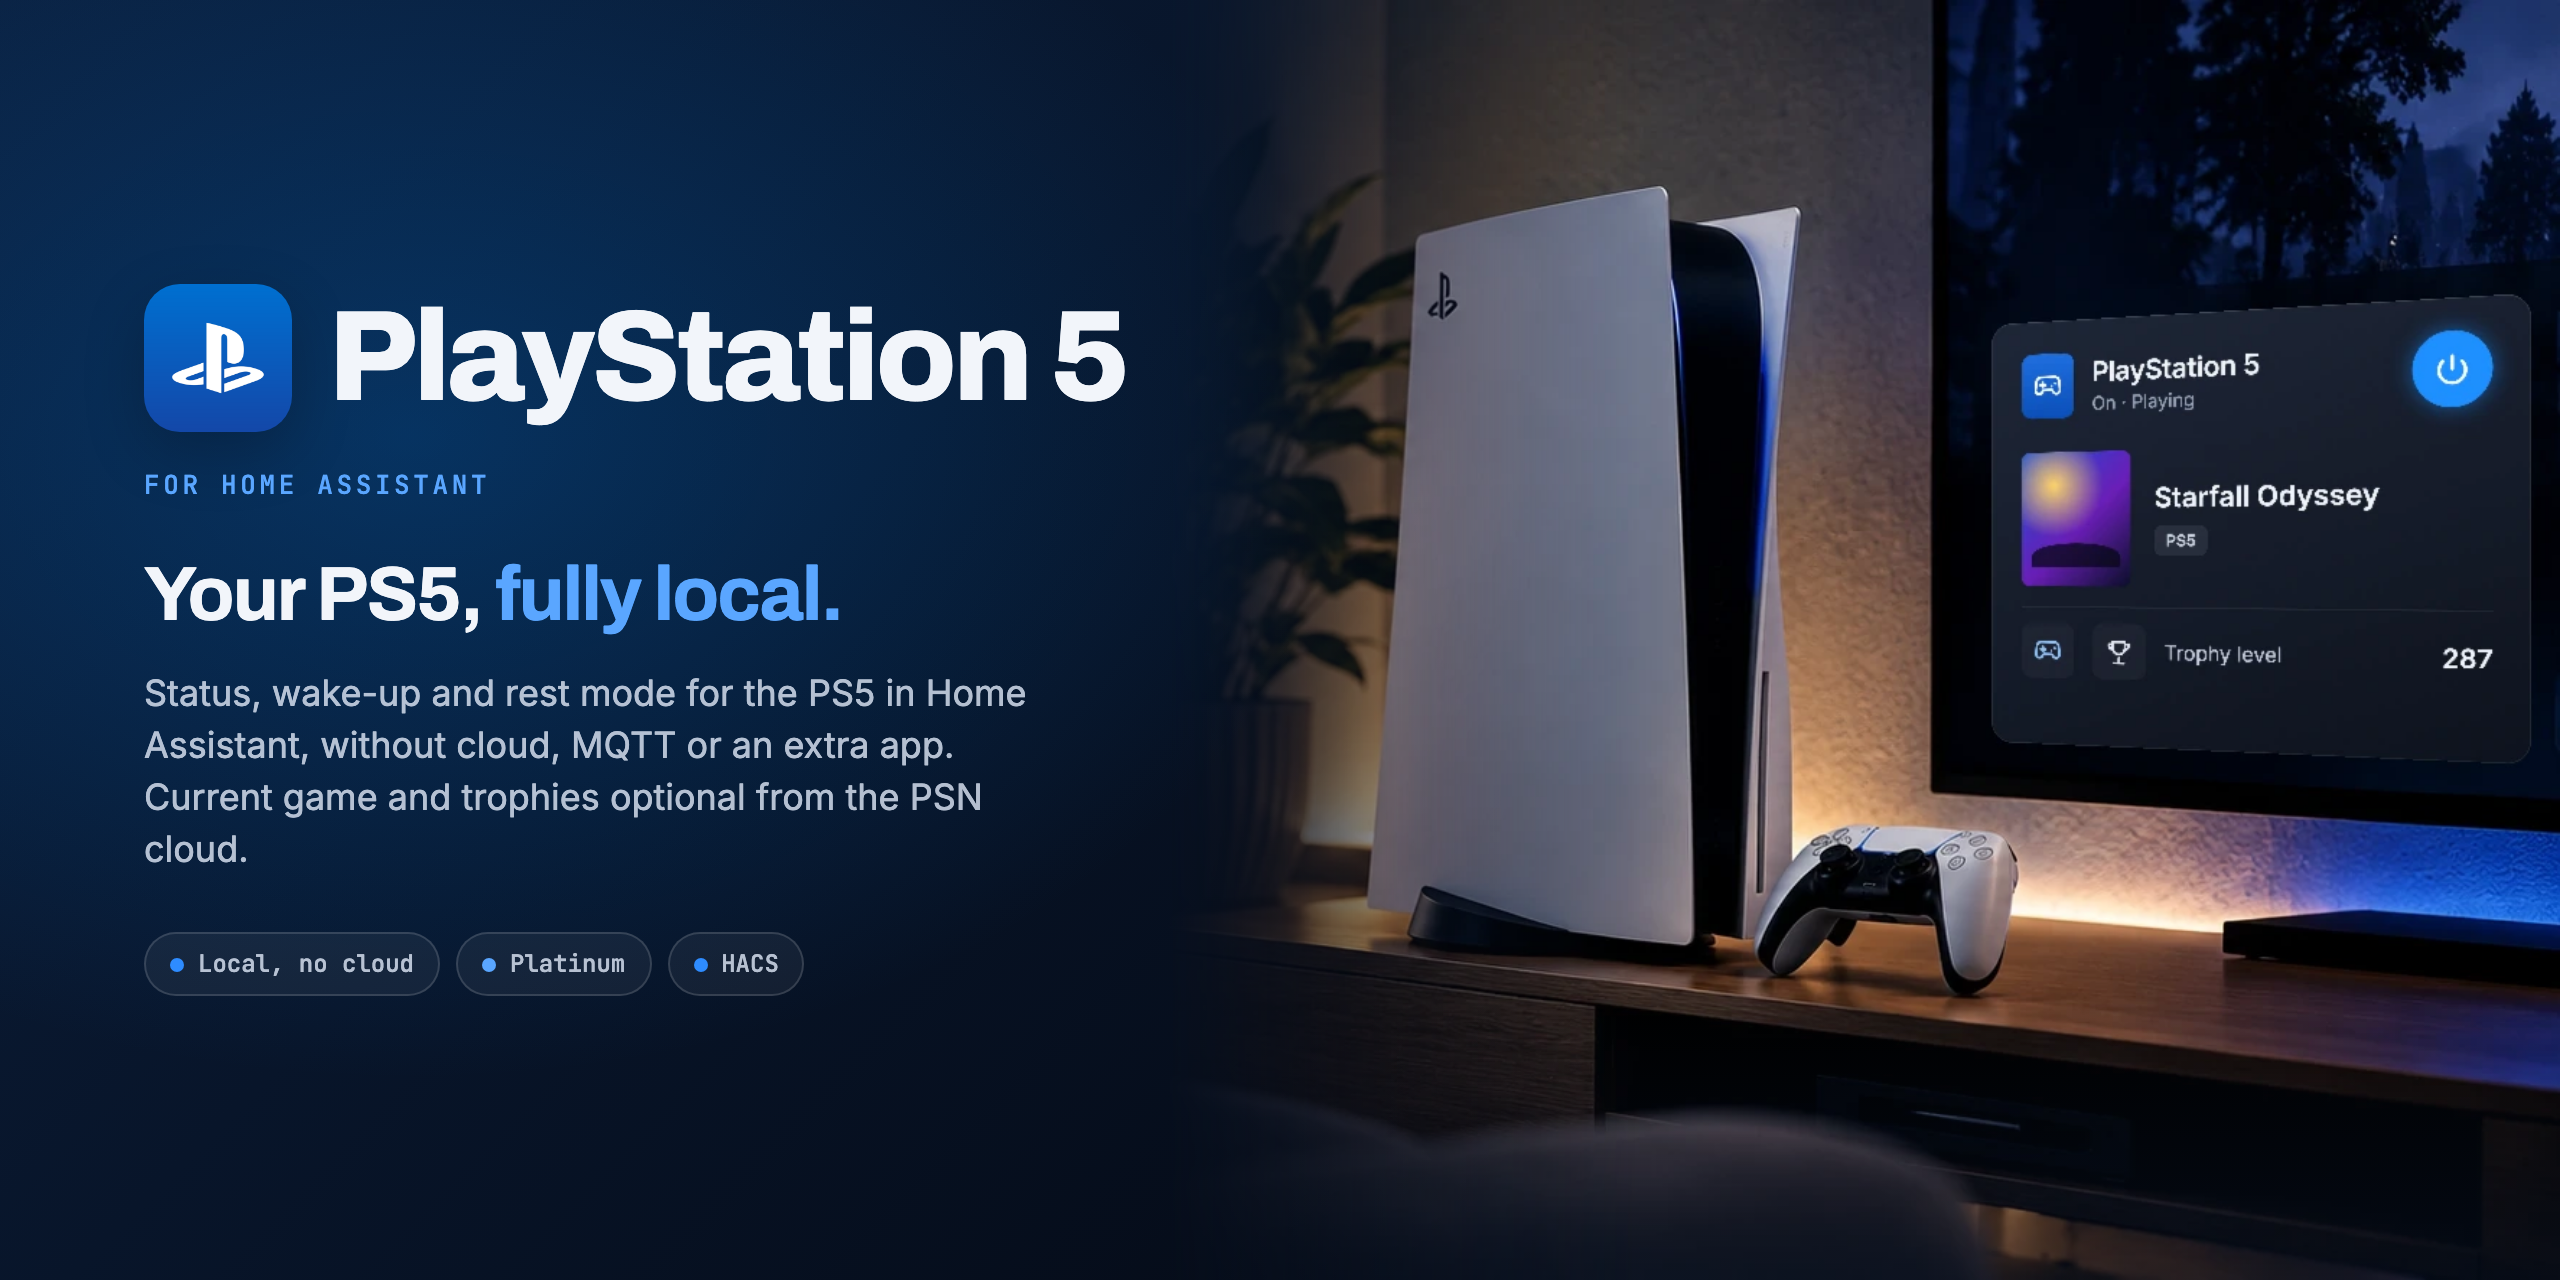
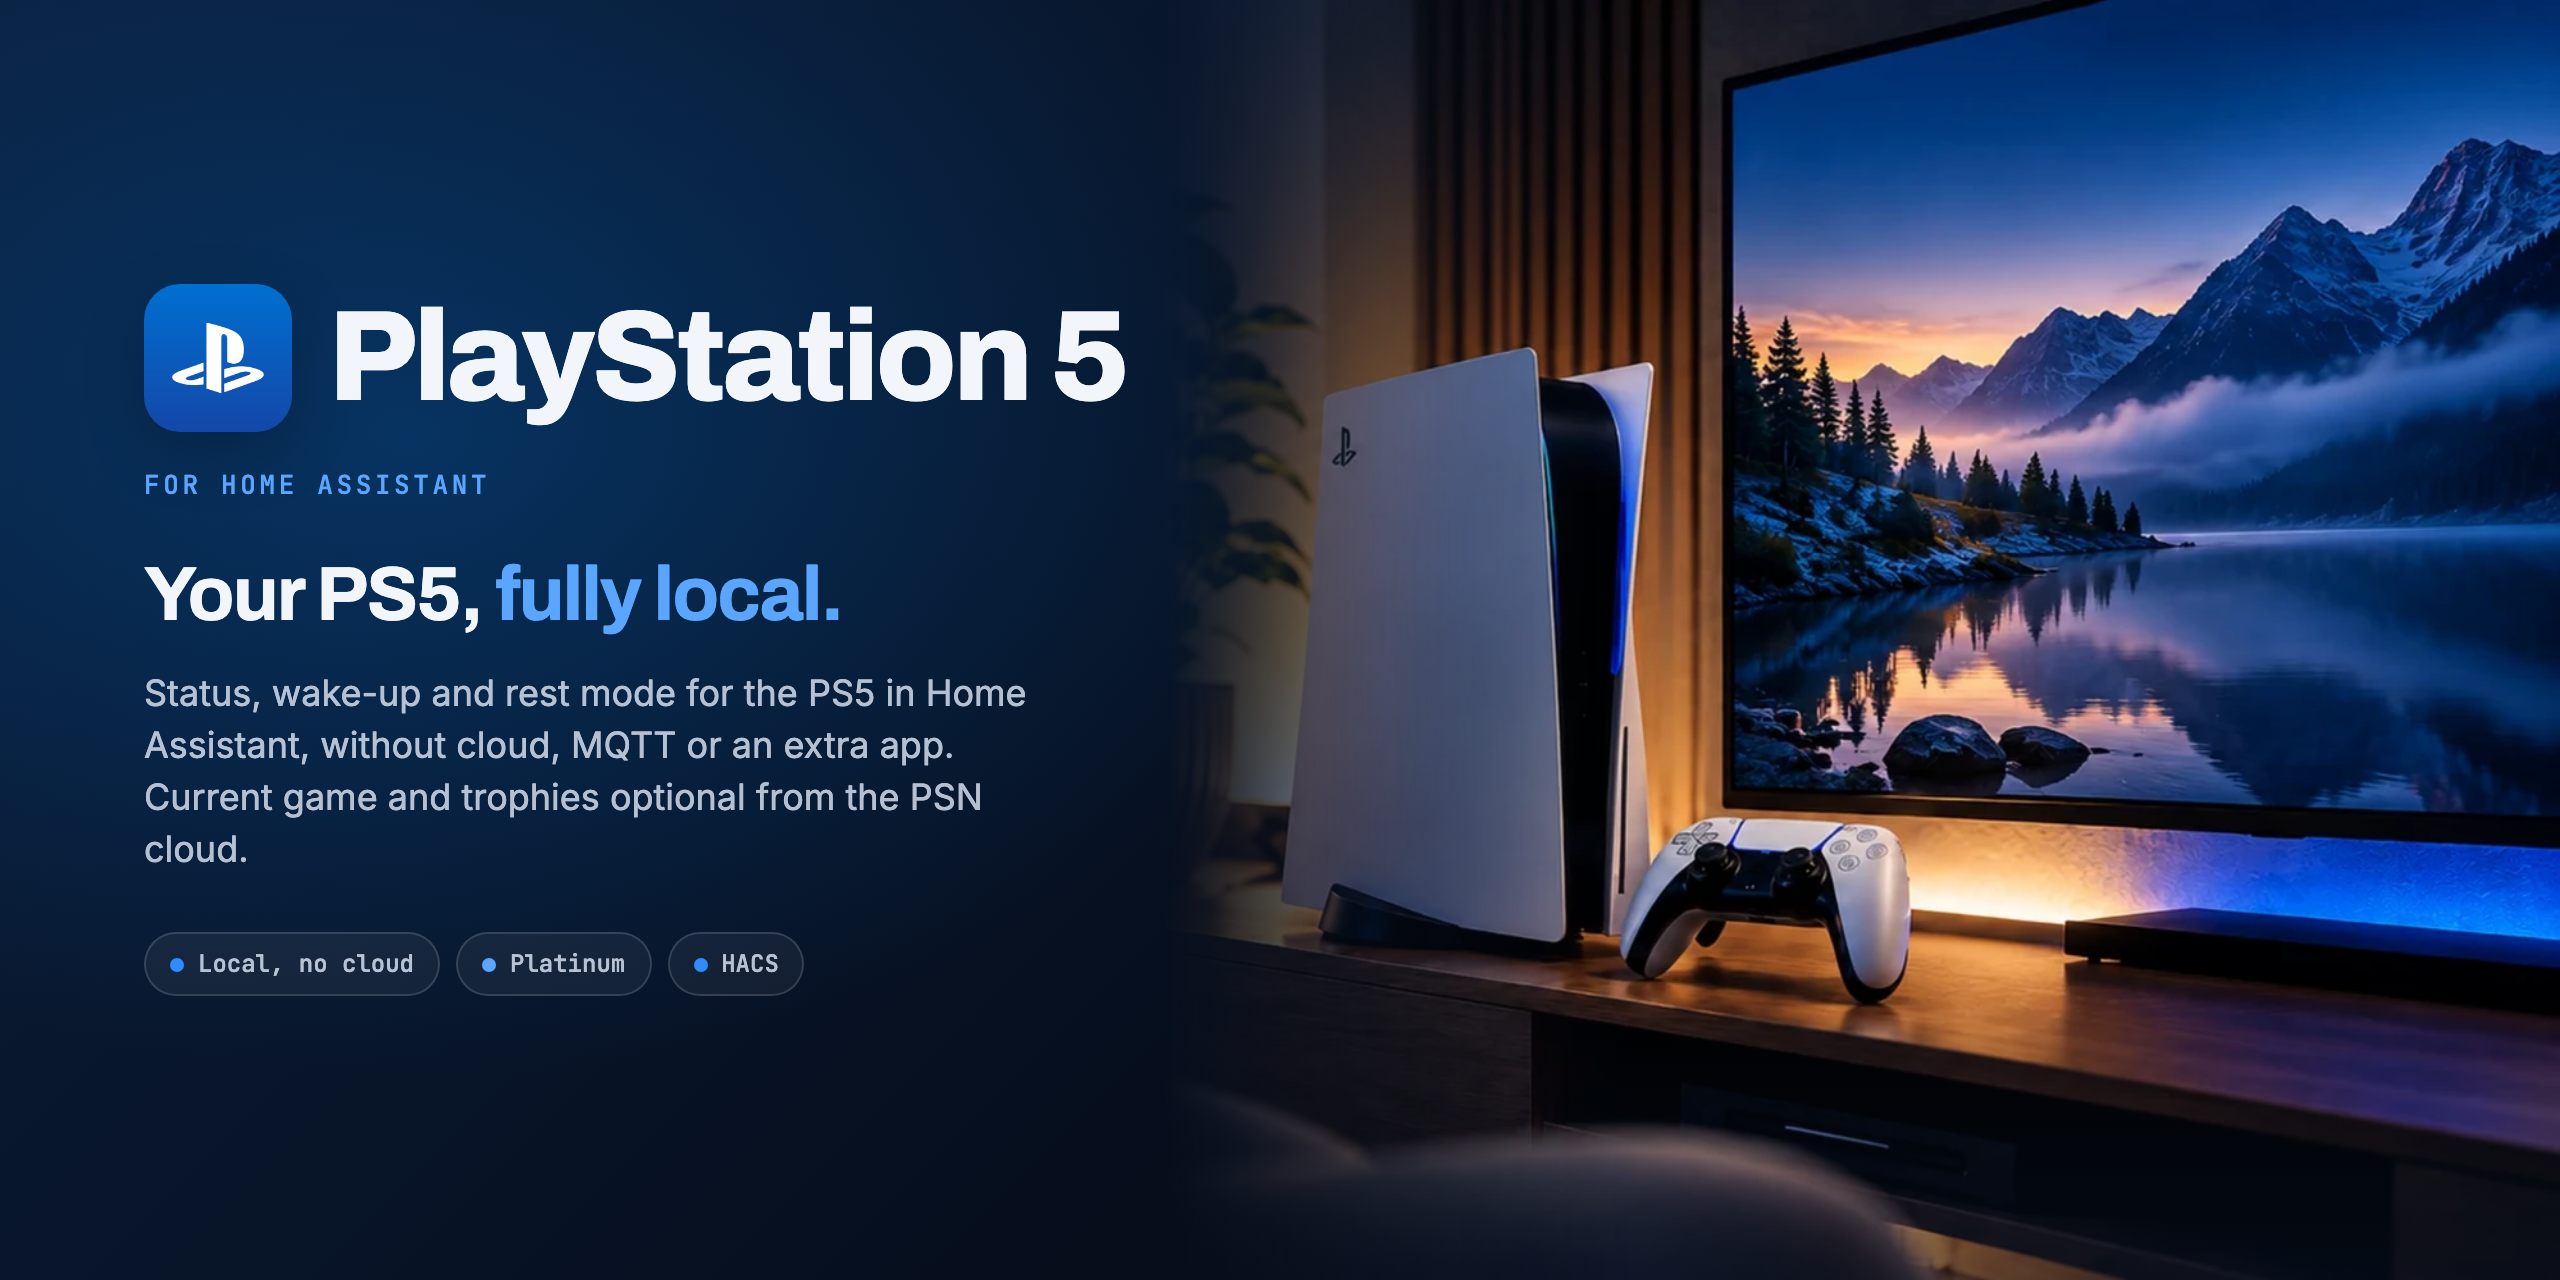
docs: new console photo for the title image and project page
Replaces the photo with a larger AI-generated picture (PS5 and DualSense
on a TV board, a mountain lake on the TV, no status card), cut out
without the title text and with metadata stripped. Title images (light
and dark) re-rendered, alt texts and caption updated.

Claude-Session: https://claude.ai/code/session_01ULsc5ZrKnvkcrEhHsqXvCz

diff --git a/docs/index.html b/docs/index.html
@@ -111,8 +111,8 @@ section.tint { background: var(--bg-2); }
 /* Bühne: stilisierte Konsole mit Karten (bleibt in beiden Themes dunkel) */
 .stage { position: relative; margin: clamp(48px, 7vw, 84px) auto 0; max-width: 1000px; border-radius: var(--radius-lg); padding: clamp(28px, 5vw, 56px) clamp(16px, 4vw, 48px);
   background: radial-gradient(ellipse at 50% 0%, #0d2440, #06090f 70%); box-shadow: var(--shadow-lg), inset 0 0 0 1px rgba(255,255,255,0.06); color: #eef2f8; }
-/* Bild im Hero: KI-erzeugtes Foto, die Karte im TV zeigt erfundene Werte */
-.photo { display: block; width: 100%; aspect-ratio: 3 / 2; object-fit: cover; object-position: 50% 45%; border-radius: 22px; box-shadow: 0 30px 60px -24px rgba(0,0,0,0.8), inset 0 0 0 1px rgba(255,255,255,0.06); }
+/* Bild im Hero: KI-erzeugtes Foto */
+.photo { display: block; width: 100%; aspect-ratio: 3 / 2; object-fit: cover; object-position: 50% 50%; border-radius: 22px; box-shadow: 0 30px 60px -24px rgba(0,0,0,0.8), inset 0 0 0 1px rgba(255,255,255,0.06); }
 .cards { display: grid; grid-template-columns: 1.15fr 1fr; gap: 16px; margin-top: clamp(20px, 3vw, 28px); text-align: left; }
 .hc { background: rgba(255,255,255,0.05); border: 1px solid rgba(255,255,255,0.08); border-radius: 22px; padding: 20px 22px; min-width: 0; }
 .hc .top { display: flex; align-items: center; gap: 12px; }
@@ -312,8 +312,8 @@ footer .fine { flex-basis: 100%; line-height: 1.6; }
       <span class="en">Home Assistant 2026.9 or newer &middot; English and German &middot; GPLv3</span><span class="de">Home Assistant 2026.9 oder neuer &middot; Deutsch und Englisch &middot; GPLv3</span>
     </p>
 
-    <div class="stage reveal d3" role="img" aria-label="An AI-generated picture of a PS5 with a DualSense controller on a TV board; the TV shows a status card with PlayStation 5, On, Playing, the made-up game Starfall Odyssey and trophy level 287. Below it a media player card and a list of entity values. All values are made up.">
-      <img class="photo" src="images/readme-photo.webp" width="966" height="887" alt="">
+    <div class="stage reveal d3" role="img" aria-label="An AI-generated picture of a PS5 with a DualSense controller on a TV board in a dim living room, the TV shows a mountain lake. Below it an illustration with a media player card and a list of entity values. The values are made up.">
+      <img class="photo" src="images/readme-photo.webp" width="1090" height="1000" alt="">
       <div class="cards">
         <div class="hc">
           <div class="top">
@@ -334,7 +334,7 @@ footer .fine { flex-basis: 100%; line-height: 1.6; }
           </div>
         </div>
       </div>
-      <p class="fict"><span class="en">AI-generated picture and illustration with made-up values, not a screenshot.</span><span class="de">KI-erzeugtes Bild und Illustration mit erfundenen Werten, kein Screenshot.</span></p>
+      <p class="fict"><span class="en">AI-generated picture; the cards are an illustration with made-up values, not a screenshot.</span><span class="de">KI-erzeugtes Bild; die Karten sind eine Illustration mit erfundenen Werten, kein Screenshot.</span></p>
     </div>
   </div>
 </section>

diff --git a/docs/readme-title.html b/docs/readme-title.html
@@ -3,7 +3,7 @@
 <head>
 <meta charset="utf-8">
 <title>README title image</title>
-<!-- README title image with the photo (docs/images/readme-photo.webp, the TV panel shows made-up values).
+<!-- README title image with the photo (docs/images/readme-photo.webp, AI-generated).
      Rendered at 1280x640, device scale 2, once with ?theme=light and once with ?theme=dark,
      to docs/images/readme-title-light.png and readme-title-dark.png (headless Chrome). -->
 <link href="https://fonts.googleapis.com/css2?family=Archivo:wght@700;800&family=Inter:wght@400;500;600&family=JetBrains+Mono:wght@500&display=swap" rel="stylesheet">
@@ -15,7 +15,7 @@
   * { box-sizing: border-box; margin: 0; }
   body { width: 1280px; height: 640px; overflow: hidden; position: relative; color: var(--ink); font-family: "Inter", -apple-system, system-ui, sans-serif;
     background: radial-gradient(760px 520px at 16% 34%, var(--glow-1), transparent 62%), linear-gradient(135deg, var(--bg-2) 0%, var(--bg) 70%); }
-  .photo { position: absolute; right: 0; top: 0; height: 640px; width: 697px; background: url(images/readme-photo.webp) center / cover no-repeat;
+  .photo { position: absolute; right: 0; top: 0; height: 640px; width: 698px; background: url(images/readme-photo.webp) center / cover no-repeat;
     -webkit-mask-image: linear-gradient(to right, transparent 0, rgba(0,0,0,0.55) 16%, #000 34%); mask-image: linear-gradient(to right, transparent 0, rgba(0,0,0,0.55) 16%, #000 34%); }
   .photo::after { content: ""; position: absolute; inset: 0; background: linear-gradient(to top, var(--fade) 0, transparent 22%); opacity: .55; }
   .left { position: absolute; left: 72px; top: 0; bottom: 0; width: 500px; display: flex; flex-direction: column; justify-content: center; }

diff --git a/README.md b/README.md
@@ -2,7 +2,7 @@
 
 <picture>
   <source media="(prefers-color-scheme: dark)" srcset="docs/images/readme-title-dark.png" />
-  <img src="docs/images/readme-title-light.png" alt="PlayStation 5: Your PS5, fully local. An AI-generated picture of a PS5 with a DualSense controller on a TV board; the TV shows a status card with PlayStation 5, On, Playing, the game Starfall Odyssey and trophy level 287 (made-up values)." />
+  <img src="docs/images/readme-title-light.png" alt="PlayStation 5: Your PS5, fully local. An AI-generated picture of a PS5 with a DualSense controller on a TV board in a dim living room, the TV shows a mountain lake." />
 </picture>
 
 <p>Status, wake-up and rest mode for the PS5 in Home Assistant.<br/>
